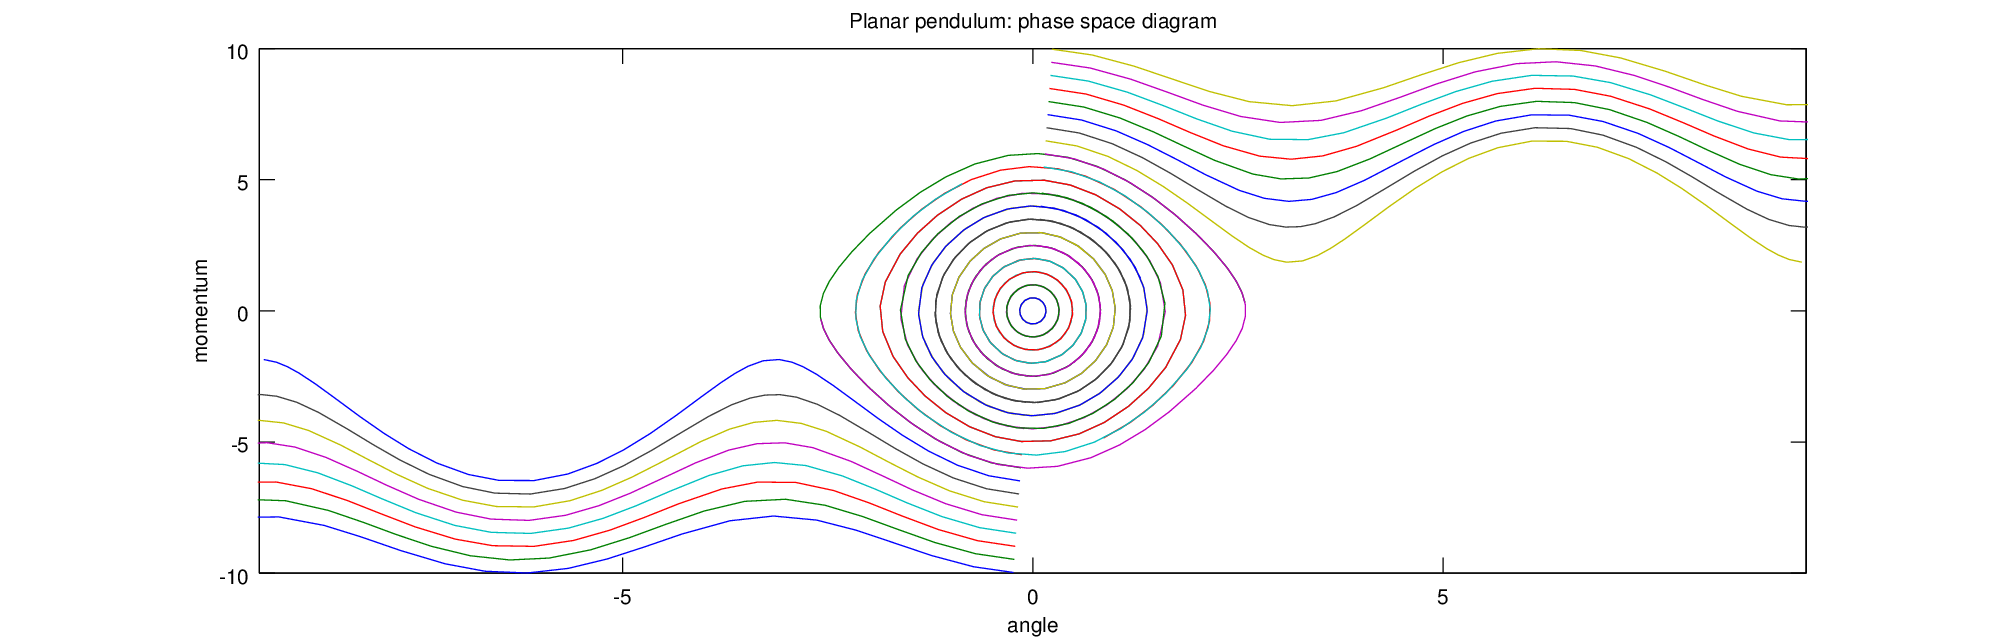
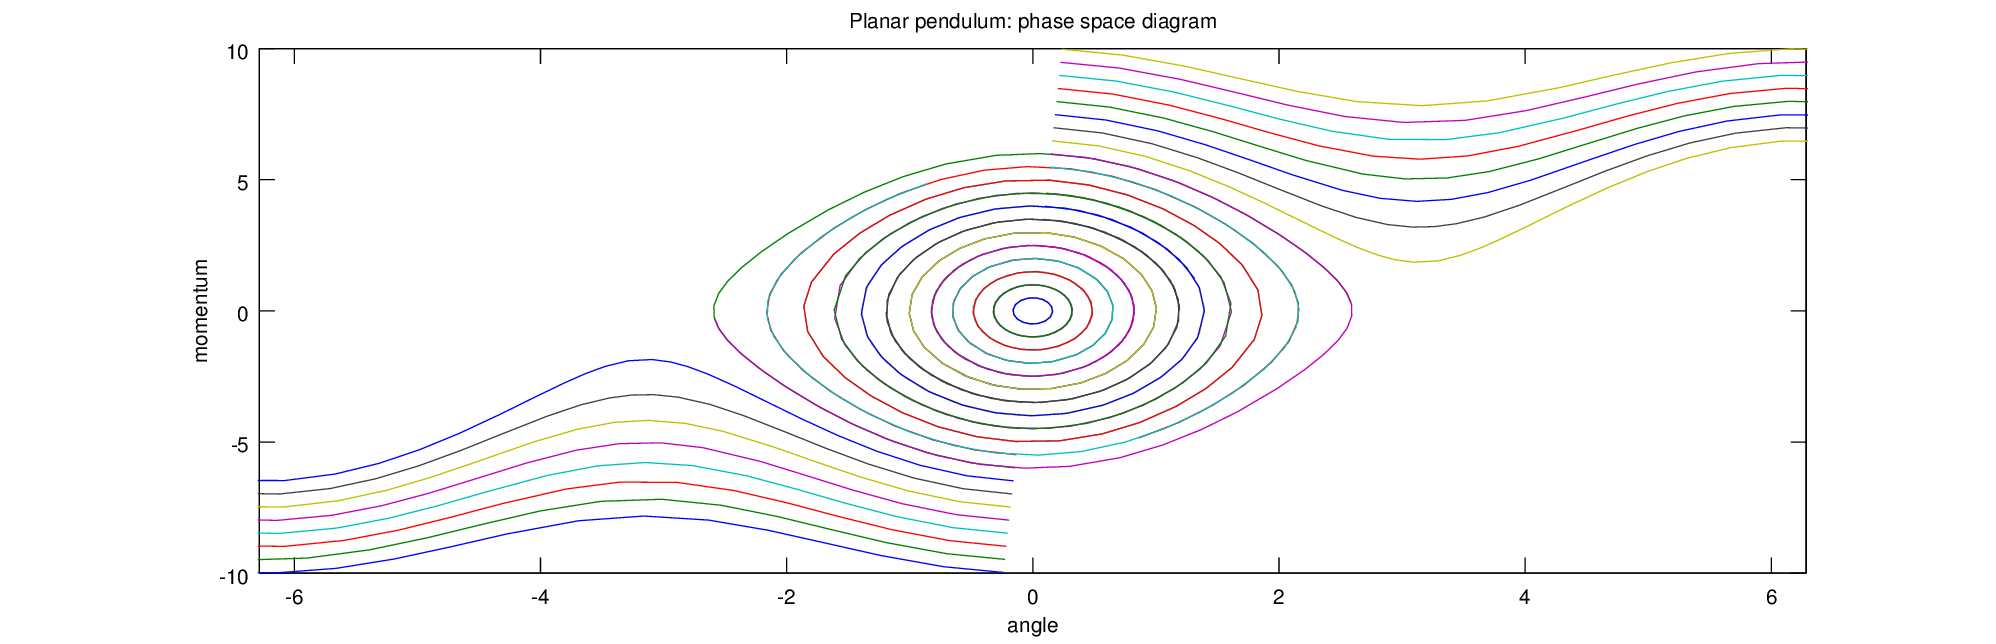
restrict a little the phase space diagram axis

Changed region(s): [[0.1242, 0.0621, 0.9008, 0.9006]]

diff --git a/netcdf/pendulum-octave.m b/netcdf/pendulum-octave.m
@@ -15,7 +15,7 @@ print -dpng pendulum_theta_time.png
 
 ## plot the phase-space diagram
 plot(theta(1:35, :), p(1:35, :))
-axis([-3*pi, 3*pi])
+axis([-2*pi, 2*pi])
 title("Planar pendulum: phase space diagram")
 xlabel("angle")
 ylabel("momentum")
